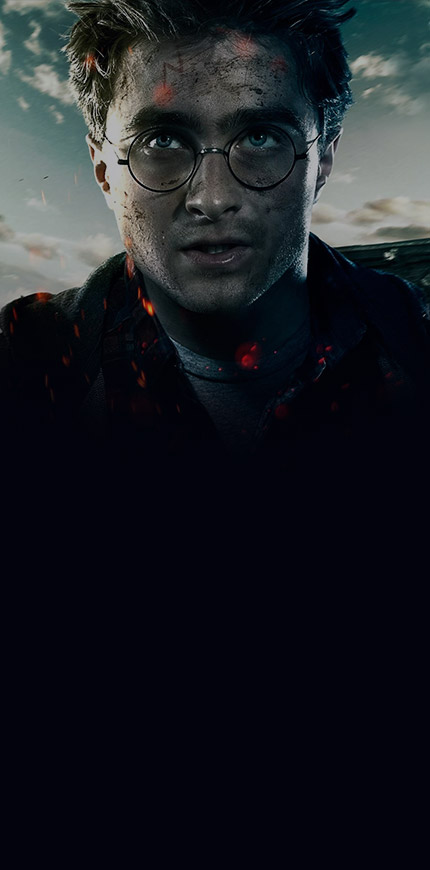
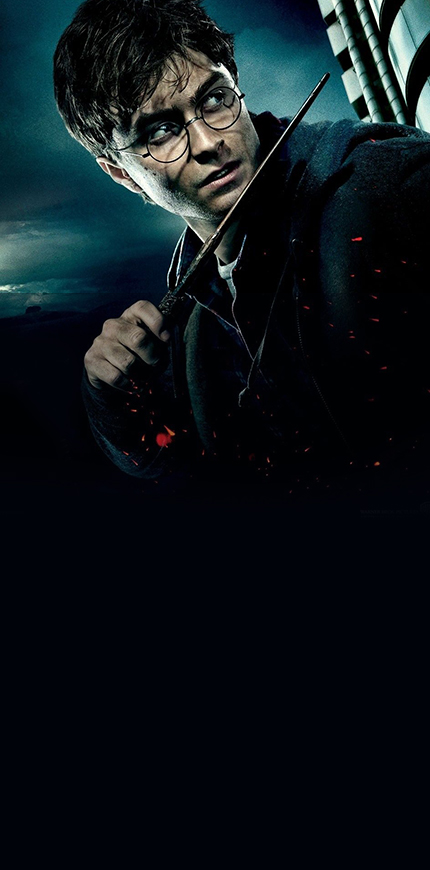
Resposive adaptation

diff --git a/Technical-page/style.css b/Technical-page/style.css
@@ -131,6 +131,7 @@ code{
 }
 .main-section{
     position:relative;
+    overflow: hidden;
 }
 .Intro-tittle{
     position: absolute;
@@ -897,15 +898,28 @@ code{
 
 /* Extra small devices (phones, 426px and down) */
 @media only screen and (max-width: 426px) {
+    .logo{
+        height: 55px;
+    }
     .logo a{
-        width: 40%;
+        width: 46%;
+    }
+    .logo-2{
+        margin-top: 25px;
+    }
+    #navbar{
+        padding: 40px;
+    }
+    .container.content{
+        margin-top: 93px;
     }
     #Intro{
         height: 85vh;
     }
     .Intro-tittle{
-        top: 45vh;
-        padding: 10px 46px;
+        top: 35vh;
+        padding: 5px 30px;
+        display: none;
     }
     .h-bg{
         display: none;
@@ -918,13 +932,21 @@ code{
     }
     .text-container{
         flex-direction: column;
+        padding-top: 0%;
+        justify-content: flex-end;
+    }
+    .text-container .logo-main{
+        width: 85%;
+        padding: 10px 60px;
     }
     .text-container .text-intro{
         width: 100%;
+        font-size: 0.7rem;
     }
     .text-container .top-autor{
         width: 100%;
         height: 13%;
+        justify-content: center;
     }
     .image-movie{
         background-position-y: 0px;
@@ -952,7 +974,8 @@ code{
         background-position-y: -45px;
     }
     .image-movie.three{
-        background-position-y: 0px;
+        background-position-y: -5px;
+        background-position-x: -29px;
     }
     .image-movie.four{
         background-position-y: 0px;
@@ -965,9 +988,11 @@ code{
     }
     .image-movie.seven{
         background-position-y: -5px;
+        background-position-x: -20px;
     }
     .image-movie.eight{
-        background-position-y: -5px;
+        background-position-y: -21px;
+        background-position-x: -31px;
     }
   }
   

diff --git a/Technical-page/index.html b/Technical-page/index.html
@@ -65,7 +65,7 @@
                             <div class="social-colum"></div>
                         </div>
                         <div class="text-container">
-                            <div class="logo-main" data-aos="fade-down"><img src="img/hp-logo-main.png" alt="HP-Logo-main" style="width: 50%;"></div>
+                            <div class="logo-main" data-aos="fade-down"><img src="img/hp-logo-main.png" alt="HP-Logo-main" style="width: 100%;"></div>
                             <div class="text-intro" data-aos="fade-up">
                                 <p>is a series of seven fantasy novels written by British author, J. K. Rowling. The novels chronicle the lives of a young wizard, Harry Potter, and his friends Hermione Granger and Ron Weasley, all of whom are students at Hogwarts School of Witchcraft and Wizardry. The main story arc concerns Harry's struggle against Lord Voldemort, a dark wizard who intends to become immortal, overthrow the wizard governing body known as the Ministry of Magic and subjugate all wizards and Muggles (non-magical people).</p>  
                             </div>
